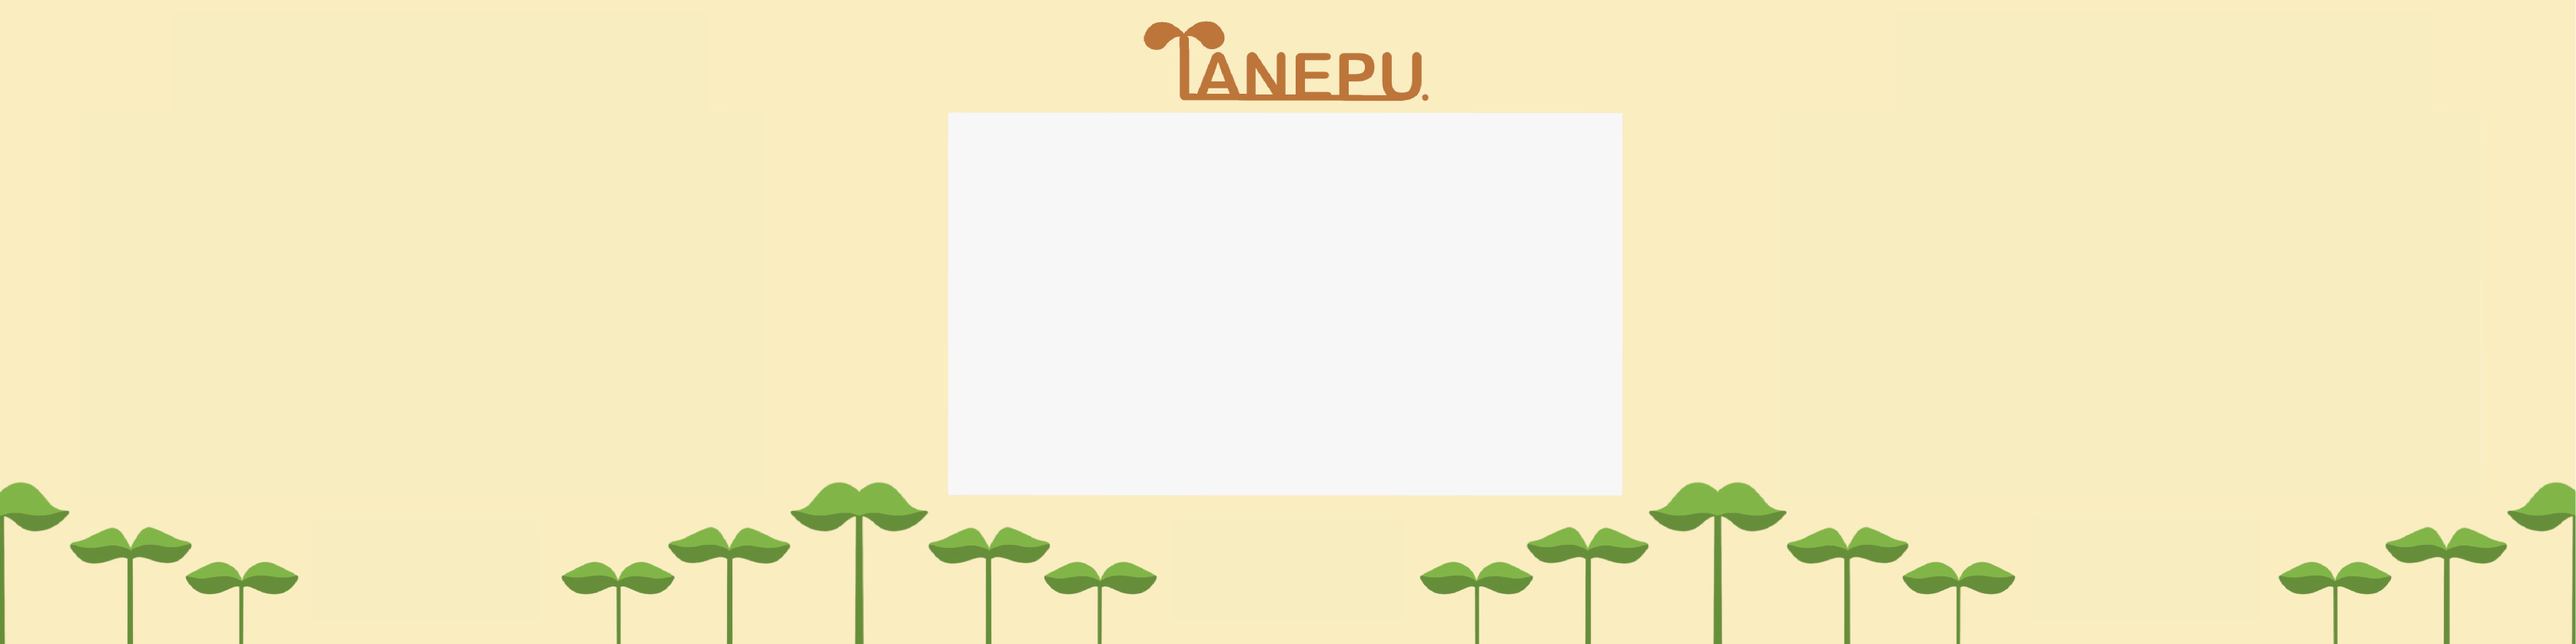
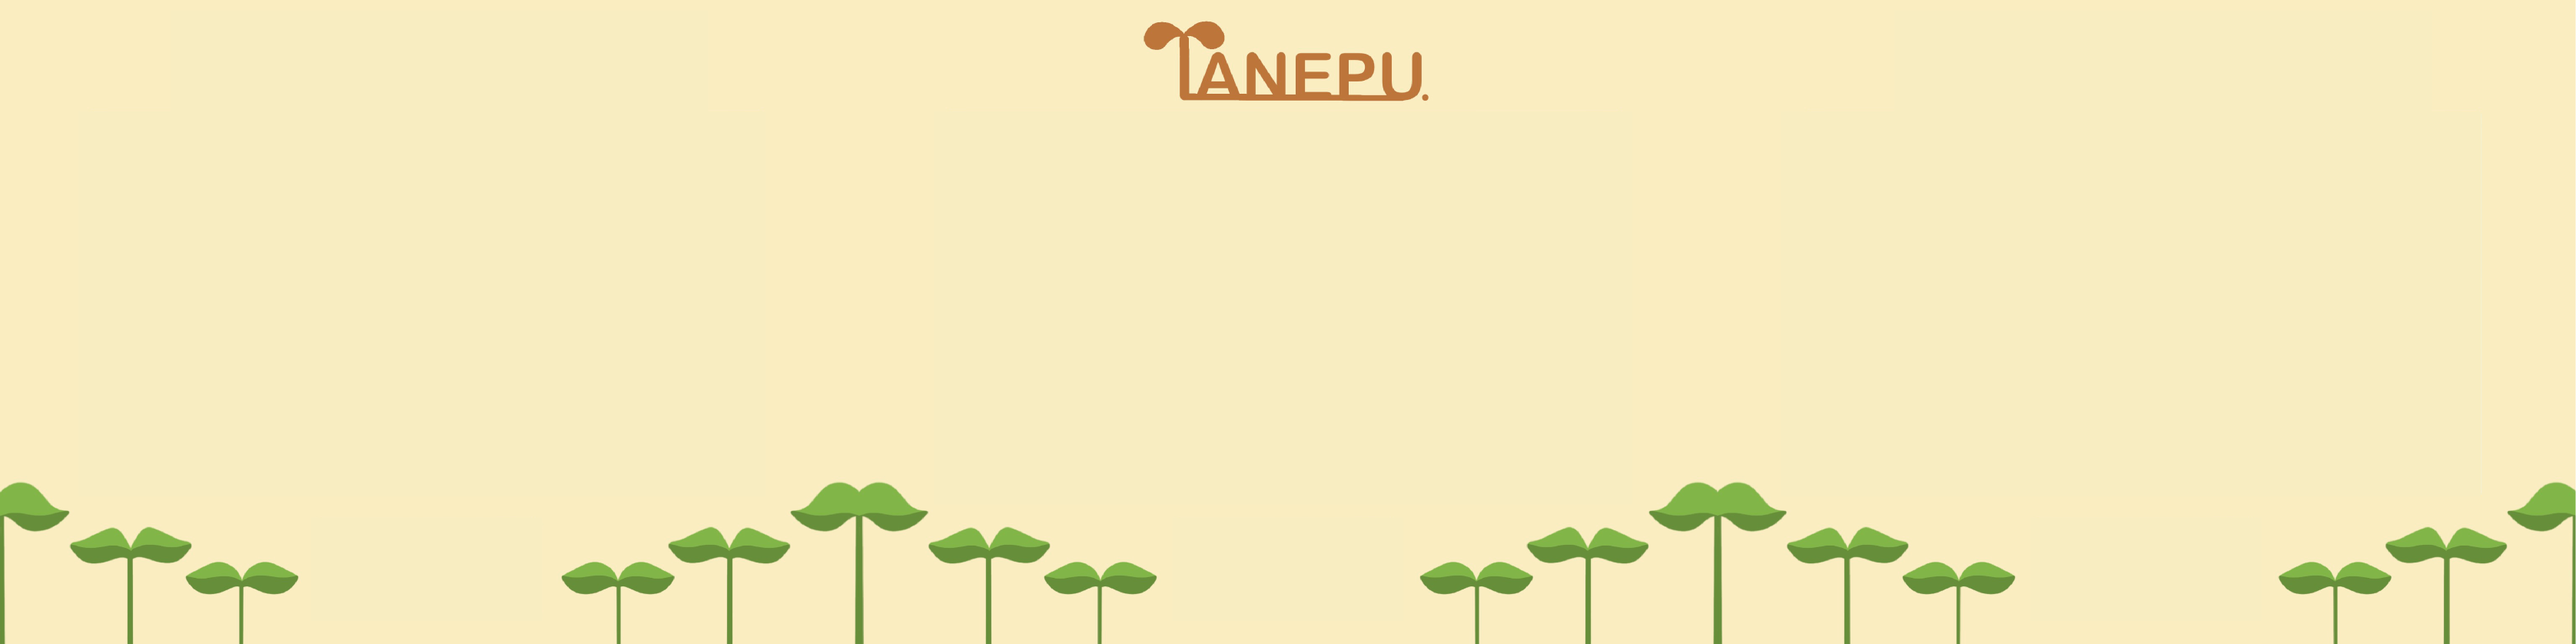
update

Changed region(s): [[0.3413, 0.1551, 0.6516, 0.7757]]

diff --git a/css/Video.css b/css/Video.css
@@ -9,12 +9,12 @@ body{
 
 video{
     position: absolute;
-    top: 25%;
+    width: 104vh;
+    height: 60vh;
+    top: 32%;
     left: 50%;
     transform: translate(-50%,-25%);
-    max-width: 100%;
-    max-height: 100%;
-    margin: 0;
+    /* margin: 0; */
     z-index: 1;
     
 }
@@ -35,7 +35,7 @@ video{
     width: 60vh;
     display: inline-block;
     position: absolute;
-    top: 60%;
+    top: 88%;
     left: 50%;
     transform: translate3d(-50%, -50%, 0);
     transition: .1s transform;

diff --git a/test.html b/test.html
@@ -9,11 +9,12 @@
 </head>
 <body>
 
-    <video src="mp4/PEANUTS.mp4" controls></video>
+    
 
     <main class="container">
+        <video src="mp4/PEANUTS.mp4" controls></video>
         <a class="btn__back" href="index.html">
-            <img src="images/back_button.PNG"  alt="もどる">
+            <img src="images/bb.png"  alt="もどる">
         </a>
     </main>
 </body>
